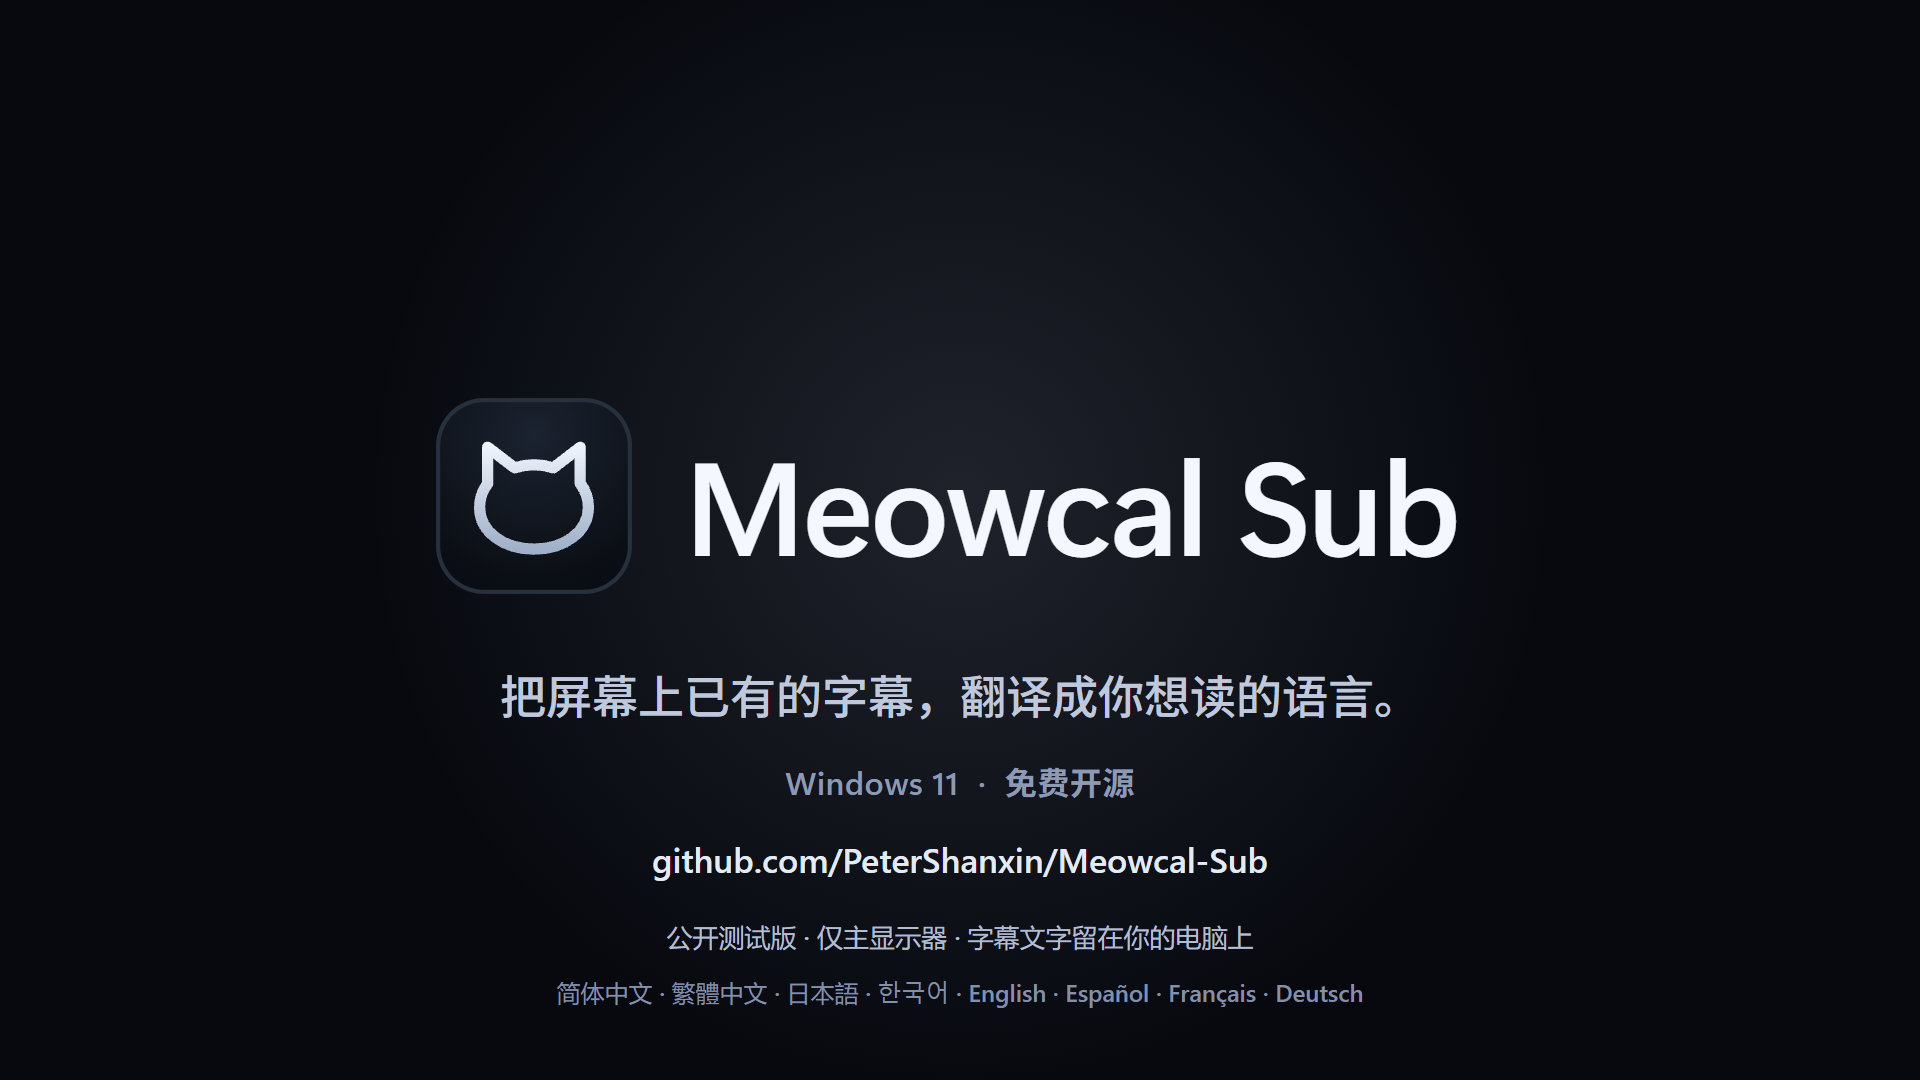
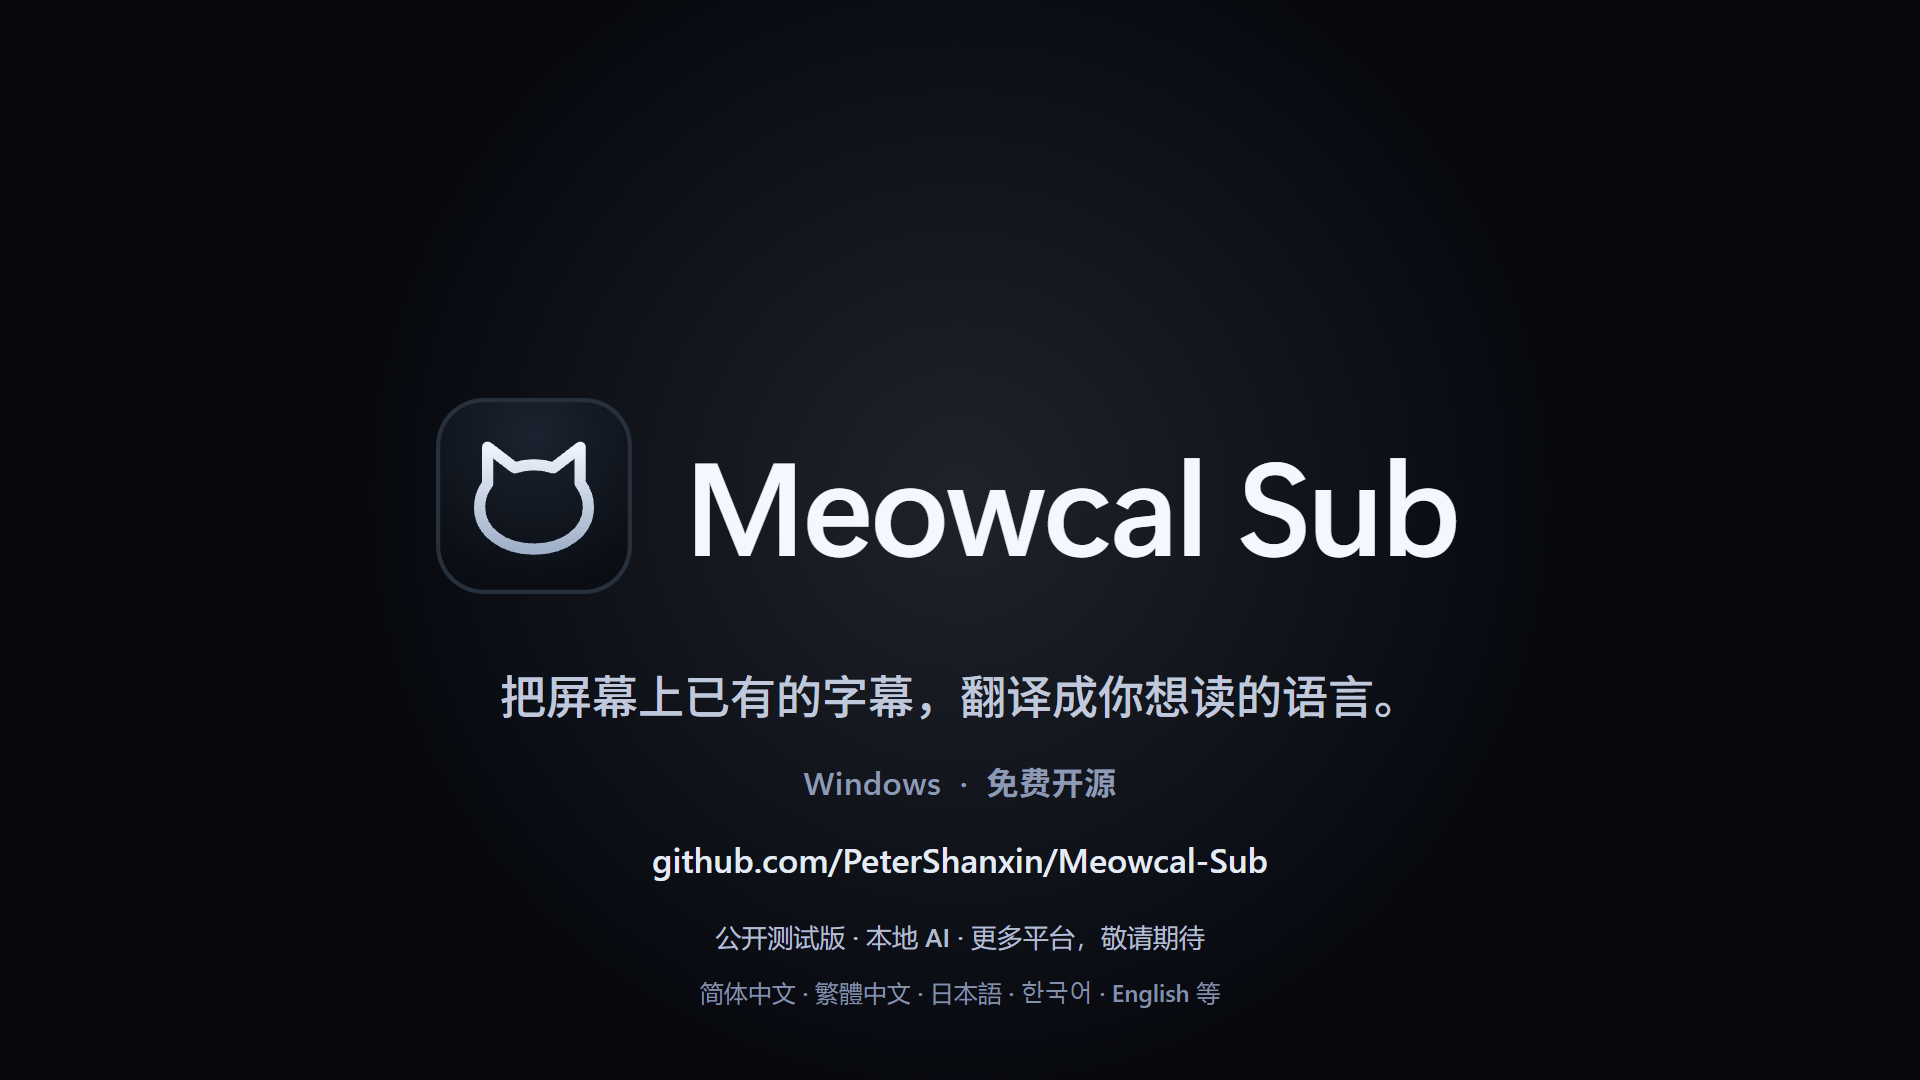
feat: shorten the end card and the cloud line
The end card names Windows with a coming-soon line for other platforms, drops the primary-display note, says local AI in place of the privacy sentence and abbreviates the language list. The cloud scene reads 'Local AI' for the same point. Renders default to one browser tab, which proved stable on the ARM64 host.

Changed region(s): [[0.2812, 0.8556, 0.7188, 0.9472], [0.4062, 0.7028, 0.5938, 0.7639]]

diff --git a/src/pixel-film/BrandReveal.tsx b/src/pixel-film/BrandReveal.tsx
@@ -10,11 +10,12 @@ import {FONT_DISPLAY} from '../film/theme';
 
 export type Locale = 'en' | 'zh';
 
-const LANGUAGES = '简体中文 · 繁體中文 · 日本語 · 한국어\nEnglish · Español · Français · Deutsch';
-// Tagline and privacy lines follow the app's README and README.zh-CN.
+// Taglines follow the app's README and README.zh-CN.
 const COPY = {
-  en: {tagline: undefined, meta: undefined, lang: 'en-US', note: 'Public beta · Primary display only\nYour subtitle text stays on your PC'},
-  zh: {tagline: '把屏幕上已有的字幕，翻译成你想读的语言。', meta: 'Windows 11  ·  免费开源', lang: 'zh-CN', note: '公开测试版 · 仅主显示器\n字幕文字留在你的电脑上'},
+  en: {tagline: undefined, meta: 'Windows  ·  Free and open source', lang: 'en-US', note: 'Public beta · Local AI · More platforms coming soon',
+    languages: '简体中文 · 繁體中文 · 日本語 · 한국어 · English and more'},
+  zh: {tagline: '把屏幕上已有的字幕，翻译成你想读的语言。', meta: 'Windows  ·  免费开源', lang: 'zh-CN', note: '公开测试版 · 本地 AI · 更多平台，敬请期待',
+    languages: '简体中文 · 繁體中文 · 日本語 · 한국어 · English 等'},
 } as const;
 const LINK = 'github.com/PeterShanxin/Meowcal-Sub';
 const SMALL = '"Segoe UI", "Microsoft YaHei", "Yu Gothic", "Malgun Gothic", sans-serif';
@@ -29,13 +30,12 @@ export const FinalBrand: React.FC<{locale?: Locale}> = ({locale}) => {
   </AbsoluteFill>;
   const copy=COPY[locale];
   // Portrait lines sit above the bottom band that short-video apps cover with captions and buttons.
-  // Landscape keeps each group on one line; portrait breaks it where the copy breaks.
-  const line=(bottom:number,size:number,color:string,text:string,weight=500)=><div style={{position:'absolute',left:40,right:40,bottom,textAlign:'center',font:`${weight} ${size}px ${SMALL}`,lineHeight:1.45,whiteSpace:'pre-line',color}}>{portrait?text:text.replace('\n',' · ')}</div>;
+  const line=(bottom:number,size:number,color:string,text:string,weight=500)=><div style={{position:'absolute',left:40,right:40,bottom,textAlign:'center',font:`${weight} ${size}px ${SMALL}`,lineHeight:1.45,color}}>{text}</div>;
   return <AbsoluteFill style={{background:'#07090f'}}>
     <Brand f={930} L={layout(W,H)} metaFontSize={portrait?40:32} tagline={copy.tagline} meta={copy.meta} lang={copy.lang}/>
     {line(portrait?478:196,portrait?44:34,'#e4ebf5',LINK,600)}
-    {line(portrait?318:124,portrait?32:26,'#b3bdd0',copy.note)}
-    {line(portrait?190:70,portrait?30:24,'#8390aa',LANGUAGES)}
+    {line(portrait?390:124,portrait?32:26,'#b3bdd0',copy.note)}
+    {line(portrait?320:70,portrait?30:24,'#8390aa',copy.languages)}
   </AbsoluteFill>;
 };
 

diff --git a/src/drama-film/DramaFilm.tsx b/src/drama-film/DramaFilm.tsx
@@ -14,8 +14,8 @@ type Shot = {id: string; kind: string; from: number; duration: number};
 export type DramaProps = {cut: Cut; locale: Locale; sound?: boolean};
 
 const COPY = {
-  zh: {world: '今晚，全星球都在追同一部剧。', ocr: 'Windows OCR · 读取选框文字', local: '本机 AI · 翻译', privacy: '字幕文字留在你的电脑上。'},
-  en: {world: 'Tonight, the whole planet is watching the same show.', ocr: 'Windows OCR · reading the selection', local: 'Local AI · translating', privacy: 'Your subtitle text stays on your PC.'},
+  zh: {world: '今晚，全星球都在追同一部剧。', ocr: 'Windows OCR · 读取选框文字', local: '本机 AI · 翻译', privacy: '本地 AI，字幕不上云。'},
+  en: {world: 'Tonight, the whole planet is watching the same show.', ocr: 'Windows OCR · reading the selection', local: 'Local AI · translating', privacy: 'Local AI. Your subtitles stay on your PC.'},
 };
 
 const Super: React.FC<{text: string; portrait: boolean; opacity: number; high?: boolean}> = ({text, portrait, opacity, high = false}) =>

diff --git a/scripts/drama_review.py b/scripts/drama_review.py
@@ -82,7 +82,7 @@ def samples(shot, short):
     if kind == 'languages':
         return [(72, '日文 → 英文'), (154, 'Bean 的反应'), (252, '日文 → 法文'), (334, 'Bleu 的反应')]
     if kind == 'privacy':
-        return [(20, '小云在窗外'), (52, '挤进窗户'), (120, '踮脚飘过客厅'), (185, '拽住译文'), (220, '眼珠斜过去'), (247, '一爪拍开'), (300, '字幕文字留在本机')]
+        return [(20, '小云在窗外'), (52, '挤进窗户'), (120, '踮脚飘过客厅'), (185, '拽住译文'), (220, '眼珠斜过去'), (247, '一爪拍开'), (300, '本地 AI，字幕不上云')]
     return [(shot['sample'], LABELS[kind])]
 
 

diff --git a/DIRECTOR_SCRIPT.md b/DIRECTOR_SCRIPT.md
@@ -28,7 +28,7 @@
 
 栗子先是瞪着眼空白地看，瞳孔慢慢缩成一条缝。然后慢眨眼、半眯，耳朵压成飞机耳，胡须垂下，最后尾巴“啪”地瘫在沙发上。屋里只剩钟表的滴答声，还有电视里的呼噜。栗子身后的窗外，那朵小云悄悄冒了出来，往屋里的屏幕张望。英国的 Bean、法国的 Bleu 在各自的客厅里接上各自的译文，遇到同样的无聊。栗子机械地咬一口零食，继续看。它身后，小云把整张脸压在窗玻璃上，盯着屏幕上的字幕。
 
-小云从窗缝里挤进来，踮着脚飘过客厅，伸手拽住屏幕上的译文。栗子头都没转，只有眼珠斜过去，然后一爪把它拍飞：字幕文字留在你的电脑上。
+小云从窗缝里挤进来，踮着脚飘过客厅，伸手拽住屏幕上的译文。栗子头都没转，只有眼珠斜过去，然后一爪把它拍飞：本地 AI，字幕不上云。
 
 回到星球，小云悻悻地飘走。选框收拢成像素 Logo，逐渐细化为真正的 Meowcal Sub 品牌。
 
@@ -52,7 +52,7 @@
 
 四只猫围绕同一部剧。每个客厅有自己的墙面、配色、窗景和小桌摆设；地域由窗外的瓦屋坡地、砖砌排屋与石砌屋顶区分，不用国旗或民族服装。各家墙上贴着同一张剧集海报。
 
-客厅里的电视是 Windows 11 电脑的主显示器。远景里的栗子是 3/4 背身，脸朝电视，露出一点脸颊和胡须，视线指向屏幕。
+客厅里的电视是 Windows 电脑的显示器。远景里的栗子是 3/4 背身，脸朝电视，露出一点脸颊和胡须，视线指向屏幕。
 
 ## 字幕断点
 
@@ -80,7 +80,7 @@
 | 00:35–00:38 | 栗子瞪眼空白 → 瞳孔缩成缝 → 慢眨 → 半眯 → 飞机耳、胡须下垂 → 尾巴瘫下。最后，小云在它身后的窗外冒头。 | 钟表滴答、电视里的呼噜；尾巴落下一声闷响；窗外一口轻风。 |
 | 00:38–00:44 | Bean 与 Bleu 的屏幕分别亮起英文、法文，再切各自的半眯。主演仍在睡。 | 呼噜在每家电视里继续。 |
 | 00:44–00:46 | 栗子把零食送到嘴边，机械地咬一口。身后窗外，小云整张脸压在玻璃上。 | 一声干脆的咔嚓，几下咀嚼；玻璃上一声轻吱。 |
-| 00:46–00:52 | 远景：小云贴在窗外，从窗缝挤进来，踮脚一跳一跳飘过客厅，伸手拽住译文底板。切栗子：头不转，眼珠斜过去，一爪拍飞。「字幕文字留在你的电脑上。」 | 挤进来的橡皮吱声，踮脚的半音拨弦一路往上爬，拽的时候一声拉长的吱；拍打、噗的一声。 |
+| 00:46–00:52 | 远景：小云贴在窗外，从窗缝挤进来，踮脚一跳一跳飘过客厅，伸手拽住译文底板。切栗子：头不转，眼珠斜过去，一爪拍飞。「本地 AI，字幕不上云。」 | 挤进来的橡皮吱声，踮脚的半音拨弦一路往上爬，拽的时候一声拉长的吱；拍打、噗的一声。 |
 | 00:52–00:55 | 回到猫猫地球，窗与窗之间连起线；小云悻悻飘走。 | 片子自己的弦乐回来，钟琴一扇扇窗点亮。 |
 | 00:55–01:00 | 选框收为猫 Logo，像素逐步细化；58 秒起停在清晰的真实品牌上。 | 开场动机解决，竖琴琶音、钟琴，一声短短的“咪”作为声音标志。 |
 
@@ -107,12 +107,12 @@
 | | 中文版 | 英文版 |
 | --- | --- | --- |
 | 品牌句 | 把屏幕上已有的字幕，翻译成你想读的语言。 | Translate the subtitles already on your screen. |
-| 辅助行 | Windows 11 · 免费开源 | Windows 11 · Free and open source |
+| 辅助行 | Windows · 免费开源 | Windows · Free and open source |
 | 行动 | github.com/PeterShanxin/Meowcal-Sub | 同左 |
-| 说明 | 公开测试版 · 仅主显示器 · 字幕文字留在你的电脑上 | Public beta · Primary display only · Your subtitle text stays on your PC |
-| 语言 | 简体中文 · 繁體中文 · 日本語 · 한국어 · English · Español · Français · Deutsch | 同左 |
+| 说明 | 公开测试版 · 本地 AI · 更多平台，敬请期待 | Public beta · Local AI · More platforms coming soon |
+| 语言 | 简体中文 · 繁體中文 · 日本語 · 한국어 · English 等 | 简体中文 · 繁體中文 · 日本語 · 한국어 · English and more |
 
-竖版片尾把说明和语言各拆成两行，放在短视频平台底部字幕与按钮区之上。
+竖版片尾的小字放在短视频平台底部字幕与按钮区之上。
 
 ## 表演、声音与产品依据
 

diff --git a/README.md b/README.md
@@ -77,9 +77,9 @@ The monitor is the cat’s Windows PC primary display. Existing Japanese text
 remains when the familiar translated line stops. The viewer pauses before
 translating, so no sound plays while Meowcal Sub reads that visible text with
 Windows OCR and translates locally; the translation plate sits directly below,
-with the same width. No speech recognition is depicted. The end card states
-Windows 11, public beta, primary-display support and all eight supported
-languages, and uses the app README’s tagline and privacy line.
+with the same width. No speech recognition is depicted. The end card uses the
+app README’s tagline and names Windows, the public beta, local AI and the
+supported languages; its platform line is the product owner's copy.
 
 UI colors and the final logo follow the app source, including
 `src/styles/tokens.css`. The Logo gesture is a visual metaphor, and the action is
